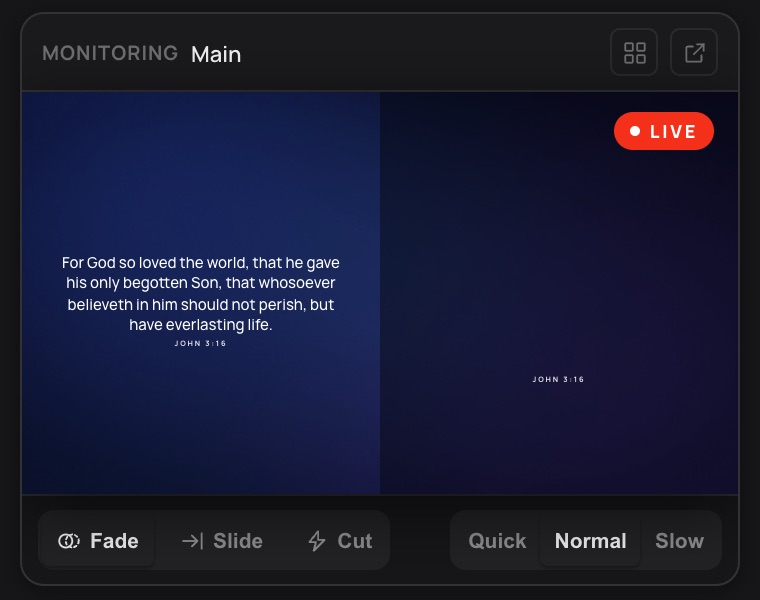
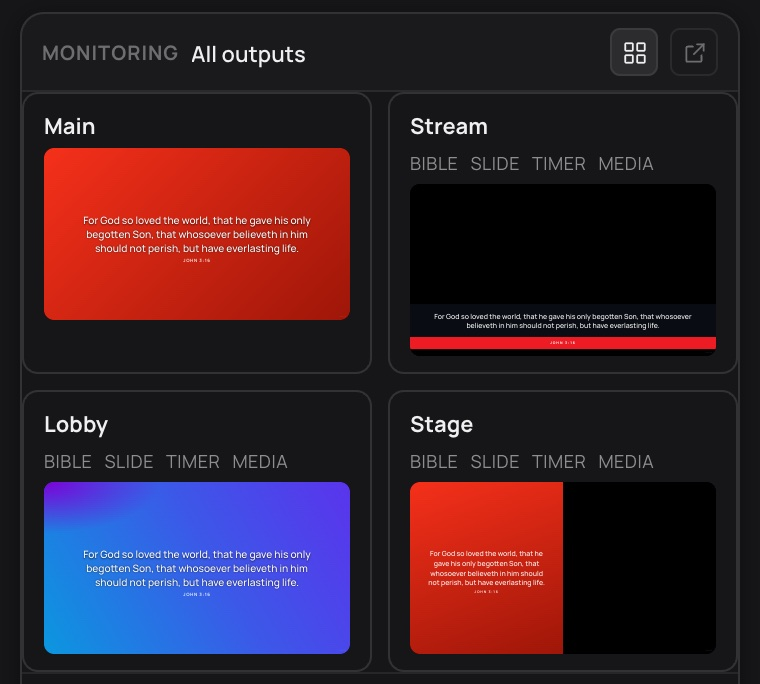
UI fixes: window drag, Audio Output volume, settings columns, monitor tour image
- The top bar drags the window from anywhere except its controls; the empty
  part of the centre column alone was too small to grab.
- Audio Output: volume slider (saved, re-applied at launch, shared with the
  media transport bar).
- Media transport: progress slider and time first, mute and a short volume
  slider after, so the two sliders can't be confused.
- Settings: Audio and Bible lay out in two columns, removing the dead space on
  the right.
- Tour: the monitor tile shows the real All outputs grid, four outputs in four
  themes.

diff --git a/src/index.html b/src/index.html
@@ -648,17 +648,15 @@
                         <button id="media-play-btn" class="ls-icon-btn" title="Play / Pause">
                     <svg width="12" height="12" viewBox="0 0 24 24" fill="currentColor" id="media-play-icon"><polygon points="5 3 19 12 5 21 5 3"/></svg>
                 </button>
-                <!-- Mute button immediately followed by the volume slider —
-                     they used to sit at opposite ends of the bar (mute here,
-                     volume all the way past seek+time), which read as two
-                     unrelated controls instead of one "volume" group paired
-                     the way every other media player pairs them. -->
+                <!-- Progress first and widest, then the time; mute and a short
+                     volume slider after, so the two sliders can't be mistaken for
+                     each other. -->
+                <input type="range" id="media-seek" class="media-seek" min="0" max="1000" value="0" title="Seek">
+                <span class="media-time" id="media-time">0:00 / 0:00</span>
                 <button id="media-mute-btn" class="ls-icon-btn" title="Mute / Unmute">
                     <svg width="12" height="12" viewBox="0 0 24 24" fill="none" stroke="currentColor" stroke-width="1.8" stroke-linecap="round" stroke-linejoin="round" id="media-mute-icon"><polygon points="3 9 8 9 13 4 13 20 8 15 3 15 3 9" fill="currentColor" stroke="none"/><path d="M16 8a5 5 0 0 1 0 8"/><path d="M19 5a9 9 0 0 1 0 14"/></svg>
                 </button>
                 <input type="range" id="media-volume" class="media-volume" min="0" max="100" value="100" title="Volume">
-                <input type="range" id="media-seek" class="media-seek" min="0" max="1000" value="0" title="Seek">
-                <span class="media-time" id="media-time">0:00 / 0:00</span>
                     </div>
                 </div>
                 <!-- Output transition — display-level (not per-theme, see
@@ -1237,6 +1235,9 @@
                 <div class="settings-section">
                     <div class="settings-section-label">Audio</div>
 
+                    <div class="setting-row-2col audio-cols">
+                    <div class="setting-col-stack">
+
                     <div class="setting-group">
                         <label class="setting-label">Speech Engine</label>
                         <div class="toggle-group" id="speech-engine-toggle">
@@ -1282,7 +1283,8 @@
                         <input type="password" id="deepgram-key" class="setting-input" placeholder="dg_...">
                     </div>
 
-                    <div class="setting-row-2col">
+                    </div>
+                    <div class="setting-col-stack">
                         <div class="setting-group">
                             <label class="setting-label">Audio Input</label>
                             <div style="display:flex;gap:6px;align-items:center;">
@@ -1302,6 +1304,7 @@
                             <p class="setting-hint">The line-in or interface feed the app listens to.</p>
                         </div>
 
+                    </div>
                     </div>
                 </div>
 
@@ -1325,9 +1328,8 @@
                         </select>
                         <p class="setting-hint">The version a verse goes up in.</p>
                     </div>
-                </div>
 
-                <div class="setting-group setting-checks">
+                    <div class="setting-group setting-checks">
                     <label class="bs-check-label">
                         <input type="checkbox" id="auto-send-settings" checked>
                         <span><strong>Put confident matches on screen automatically</strong>
@@ -1338,6 +1340,7 @@
                         <span><strong>Show how sure each match is</strong>
                         <span class="setting-hint">A percentage on each card in the Live Queue and Possible Matches.</span></span>
                     </label>
+                </div>
                 </div>
             </div>
 

diff --git a/src/app_outputs.js b/src/app_outputs.js
@@ -611,6 +611,19 @@ function setMediaOutput(deviceId) {
     body: JSON.stringify({ deviceId: deviceId || null }),
   }).catch(() => {});
 }
+const MEDIA_VOLUME_KEY = 'kairo-media-volume';
+function savedMediaVolume() {
+  try { const v = parseInt(localStorage.getItem(MEDIA_VOLUME_KEY) || '', 10); return v >= 0 && v <= 100 ? v : 100; } catch { return 100; }
+}
+function setMediaVolume(pct) {
+  try { localStorage.setItem(MEDIA_VOLUME_KEY, String(pct)); } catch {}
+  const bar = document.getElementById('media-volume');
+  if (bar) bar.value = String(pct); // the transport bar's slider follows
+  fetch(`${SERVER}/api/service/media-control`, {
+    method: 'POST', headers: { 'Content-Type': 'application/json' },
+    body: JSON.stringify({ action: 'volume', value: pct / 100 }),
+  }).catch(() => {});
+}
 async function mediaOutputDevices() {
   try {
     const devices = await navigator.mediaDevices.enumerateDevices();
@@ -665,6 +678,26 @@ function renderAudioOutputDetail(host) {
   note.className = 'setting-hint';
   group.appendChild(note);
   host.appendChild(group);
+
+  const volGroup = detailGroup('Volume');
+  const volRow = document.createElement('div');
+  volRow.className = 'audio-out-row';
+  const vol = document.createElement('input');
+  vol.type = 'range'; vol.min = '0'; vol.max = '100'; vol.step = '1';
+  vol.value = String(savedMediaVolume());
+  vol.className = 'audio-out-volume';
+  vol.setAttribute('aria-label', 'Media volume');
+  const volVal = document.createElement('span');
+  volVal.className = 'audio-out-volume-val';
+  volVal.textContent = `${vol.value}%`;
+  vol.addEventListener('input', () => { volVal.textContent = `${vol.value}%`; setMediaVolume(Number(vol.value)); });
+  volRow.append(vol, volVal);
+  volGroup.appendChild(volRow);
+  const volHint = document.createElement('p');
+  volHint.className = 'setting-hint';
+  volHint.textContent = 'How loud video on the Media layer plays. The same level as the slider on the media controls.';
+  volGroup.appendChild(volHint);
+  host.appendChild(volGroup);
 
   const testBtn = document.createElement('button');
   testBtn.type = 'button';

diff --git a/src/app.js b/src/app.js
@@ -3285,6 +3285,14 @@ populateAudioOutputDevices();
 // Re-apply the saved device to a freshly (re)connected display window —
 // otherwise it only ever learns the choice from a change event, not on
 // its own (re)connect.
+(function reapplySavedMediaVolume() {
+  const v = parseInt(localStorage.getItem('kairo-media-volume') || '', 10);
+  if (!(v >= 0 && v < 100)) return;
+  fetch(`${SERVER}/api/service/media-control`, {
+    method: 'POST', headers: { 'Content-Type': 'application/json' },
+    body: JSON.stringify({ action: 'volume', value: v / 100 }),
+  }).catch(() => {});
+})();
 (function reapplySavedAudioOutput() {
   const deviceId = localStorage.getItem(MEDIA_OUTPUT_KEY) || '';
   if (!deviceId) return;
@@ -3973,14 +3981,15 @@ if (document.documentElement.classList.contains('platform-darwin')) {
 // own startDragging() sidesteps the app-region/compositing path entirely —
 // there's nothing left for that bug class to trigger on.
 (function wireWindowDrag() {
-  const region = document.querySelector('.top-bar-center');
-  if (!region) return;
-  region.addEventListener('mousedown', (e) => {
+  // The whole top bar moves the window except its controls. The empty part of
+  // the centre column alone was too small once the tab pill filled it: at most
+  // widths there was almost nothing to grab.
+  const bar = document.querySelector('.top-bar');
+  if (!bar) return;
+  const INTERACTIVE = 'button, a, input, select, textarea, label, [role="button"], [contenteditable], .tb-group, .window-controls, .listen-btn, #mic-display';
+  bar.addEventListener('mousedown', (e) => {
     if (e.button !== 0) return; // left-click only — matches native drag-region behavior
-    // .top-bar-center now also hosts the Bible/Slides/Songs/Media/Theme
-    // Studio tabs (centering them in the bar) — only start a window drag
-    // when the empty space itself was clicked, not a tab button.
-    if (e.target !== region) return;
+    if (e.target.closest(INTERACTIVE)) return;
     const win = window.__TAURI__?.window?.getCurrentWindow?.();
     win?.startDragging?.().catch(() => {});
   });

diff --git a/src/styles.css b/src/styles.css
@@ -4580,7 +4580,9 @@ mark.help-hit.is-current { background: rgba(255,255,255,0.38); }
    the generic input[type="range"] rules near the top of this file. */
 .rs-media-strip #media-mute-btn.active { color: var(--brand); background: var(--brand-dim); border-color: var(--brand); }
 .media-seek { flex: 1; }
-.media-volume { width: 80px; flex: none; }
+.media-volume { width: 56px; flex: 0 1 56px; min-width: 32px; }
+.media-seek { min-width: 40px; }
+.rs-media-video { min-width: 0; }
 .media-time {
   font-size: 10px;
   font-family: var(--mono);
@@ -8068,3 +8070,6 @@ body.ts-scrubbing, body.ts-scrubbing * { cursor: ew-resize !important; user-sele
 }
 /* A narrow left column: the title gives way before the Clear button does. */
 .ls-transcript-header > :first-child { min-width: 0; overflow: hidden; text-overflow: ellipsis; white-space: nowrap; }
+.audio-out-volume { flex: 1; min-width: 0; accent-color: var(--brand); }
+.audio-out-volume-val { min-width: 38px; text-align: right; font-variant-numeric: tabular-nums; color: var(--text-2); font-size: 12px; }
+.audio-cols { align-items: start; }

diff --git a/src/service.js b/src/service.js
@@ -6334,7 +6334,10 @@
       if (duration > 0) mediaControl('seek', (Number(mediaSeekInput.value) / 1000) * duration);
       mediaSeeking = false;
     });
-    document.getElementById('media-volume')?.addEventListener('input', (e) => {
+    const mediaVolumeBar = document.getElementById('media-volume');
+    try { const v = parseInt(localStorage.getItem('kairo-media-volume') || '', 10); if (v >= 0 && v <= 100 && mediaVolumeBar) mediaVolumeBar.value = String(v); } catch {}
+    mediaVolumeBar?.addEventListener('input', (e) => {
+      try { localStorage.setItem('kairo-media-volume', e.target.value); } catch {}
       mediaControl('volume', Number(e.target.value) / 100);
     });
 
